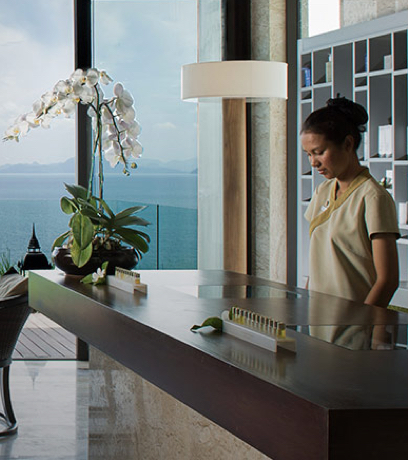
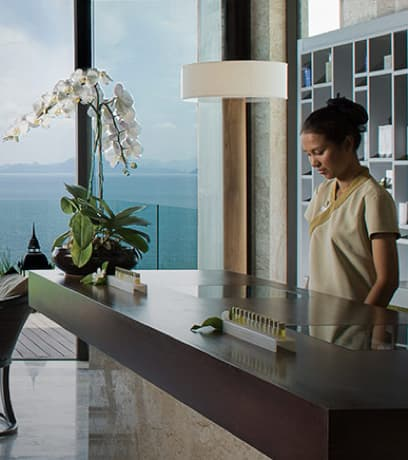
reduce images size + remove live script

diff --git a/index.html b/index.html
@@ -4,7 +4,7 @@
       <title>Roni Chabra - Home Assignment - Frontend Developer - Phenom People</title>
       <meta name="viewport" content="width=device-width, initial-scale=1">
       <meta http-equiv="Content-Type" content="text/html; charset=utf-8" />
-      <link rel="icon" href="content/images/icon.png">
+      <link rel="icon" href="content/images/ico.png">
       <!-- CSS  -->
       <link href="content/css/bootstrap.min.css" type="text/css" rel="stylesheet" />
       <link href="content/css/slick.css" type="text/css" rel="stylesheet" />
@@ -14,7 +14,7 @@
       <script src="content/js/bootstrap.min.js"></script>
       <script src="content/js/slick.min.js"></script>
       <script src="content/js/script.js"></script>
-      <script src="http://livejs.com/live.js"></script>
+     <!-- <script src="http://livejs.com/live.js"></script>-->
    </head>
    <body>
       <div class="wrapper">
